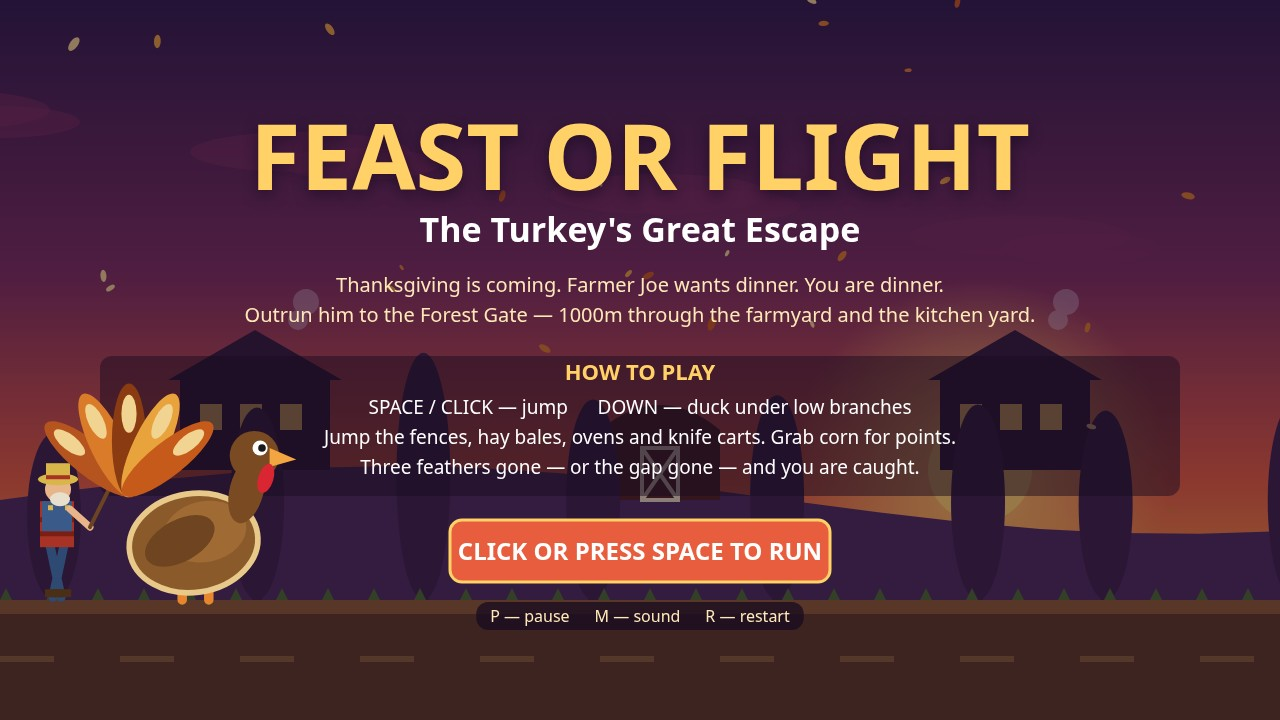
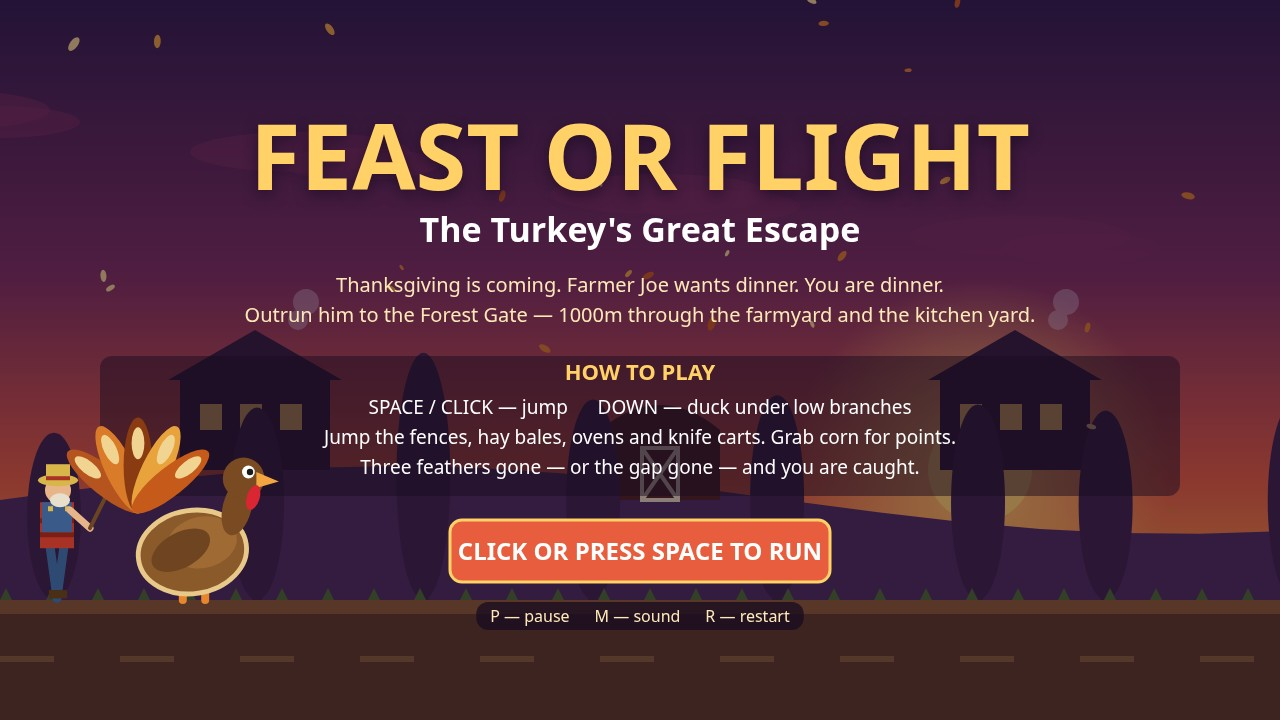
Revision v6: turkey 1.6x (middle ground between v4 1.3x too small and v5 1.9x too big), title shift kept, comments updated

Changed region(s): [[0.0312, 0.5194, 0.25, 0.8556], [0.0312, 0.7944, 0.0625, 0.825]]

diff --git a/game/src/main.js b/game/src/main.js
@@ -160,10 +160,12 @@ function gameDraw() {
     if (Game.state === 'paused') hudDrawPause(ctx);
   } else if (Game.state === 'title') {
     hudDrawTitle(ctx, Game);
-    // The 1.9x bird would cover the left end of the instruction lines
-    // (its beak reaches x ~386, line 2 starts ~x 222), so on the title
-    // screen the farmer and the turkey stand 90px further left, clear
-    // of the text. Relative spacing is unchanged; only the pair moves.
+    // The 1.6x bird would cover the left end of the instruction lines
+    // (its beak reaches x ~369 unshifted, line 3 starts ~x 365), so on
+    // the title screen the farmer and the turkey stand 90px further
+    // left, clear of the text. Relative spacing is unchanged; only the
+    // pair moves. The shift stays at 1.6x: beak lands ~x 279, clear of
+    // line 2 (~x 325) by ~45px.
     farmerDraw(ctx, Game.turkey.x - 90, farmerGap, Game.time);
     ctx.save();
     ctx.translate(-90, 0);

diff --git a/game/src/hud.js b/game/src/hud.js
@@ -173,9 +173,10 @@ function hudDrawTitle(ctx, game) {
   ctx.font = '19px system-ui, sans-serif';
   ctx.fillStyle = '#ffffff';
   ctx.fillText('SPACE / CLICK — jump      DOWN — duck under low branches', w / 2, 414);
-  // Line 2 is the longest: it starts at x ~325, clear of the 1.9x
-  // bird's beak (which reaches x ~296 on the title screen). Keep it
-  // short enough that the turkey never covers its first word.
+  // Line 2 is the longest: it starts at x ~325, clear of the 1.6x
+  // bird's beak (which reaches x ~279 on the title screen, after the
+  // 90px left shift). Keep it short enough that the turkey never
+  // covers its first word.
   ctx.fillText('Jump the fences, hay bales, ovens and knife carts. Grab corn for points.', w / 2, 444);
   ctx.fillText('Three feathers gone — or the gap gone — and you are caught.', w / 2, 474);
 

diff --git a/game/src/config.js b/game/src/config.js
@@ -16,10 +16,11 @@ const CFG = {
   // screen (field covers show heroes 1.5-3x ours; the strongest, Gobble
   // Dash, is ~290px tall at 1280-wide) while the hitbox, jump physics
   // and floor all keep using turkeyWidth/turkeyHeight, so the run plays
-  // exactly as before. At 1.9 the tail stands ~205px tall. The duck
-  // pose is NOT scaled: its head must stay clear of the hanging branch
-  // leaves.
-  turkeyDrawScale: 1.9,
+  // exactly as before. v4 at 1.3 was ~140px (too small), v5 at 1.9 was
+  // ~205px (too big, per Ban) — 1.6 lands ~172px, between the two. The
+  // duck pose is NOT scaled: its head must stay clear of the hanging
+  // branch leaves.
+  turkeyDrawScale: 1.6,
   jumpVelocity: 1000,
   gravity: 2900,
 
